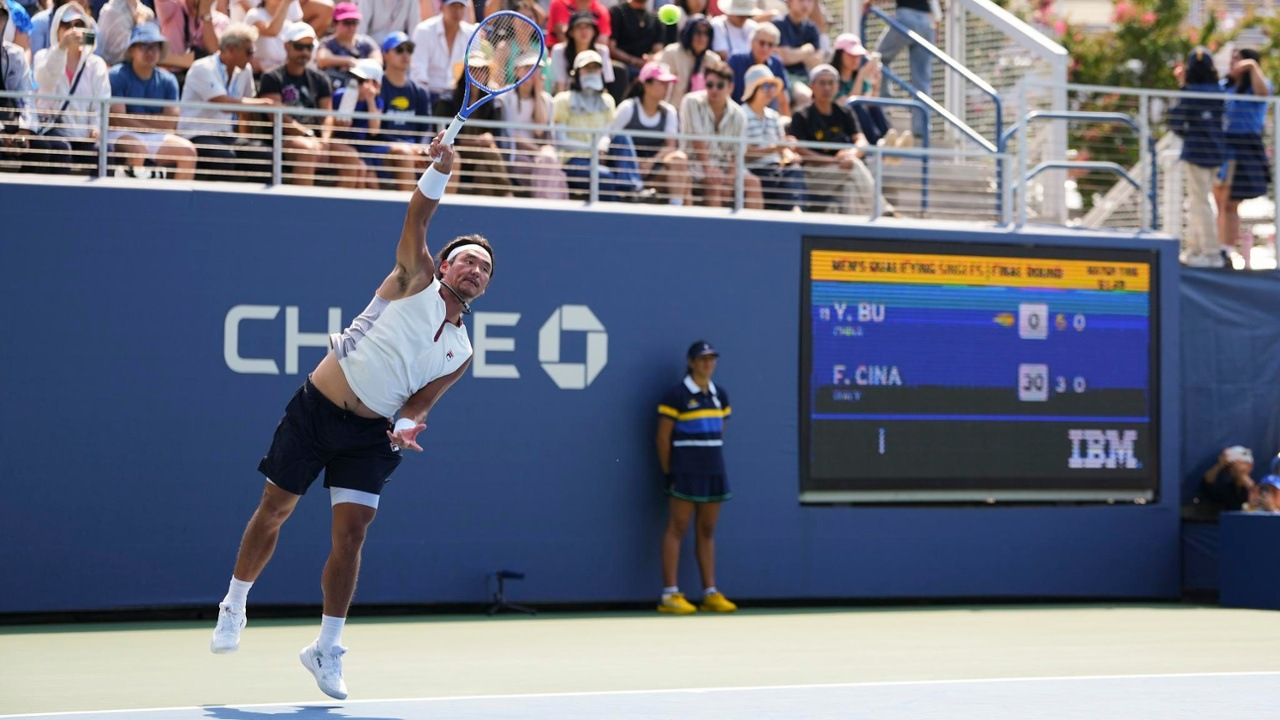
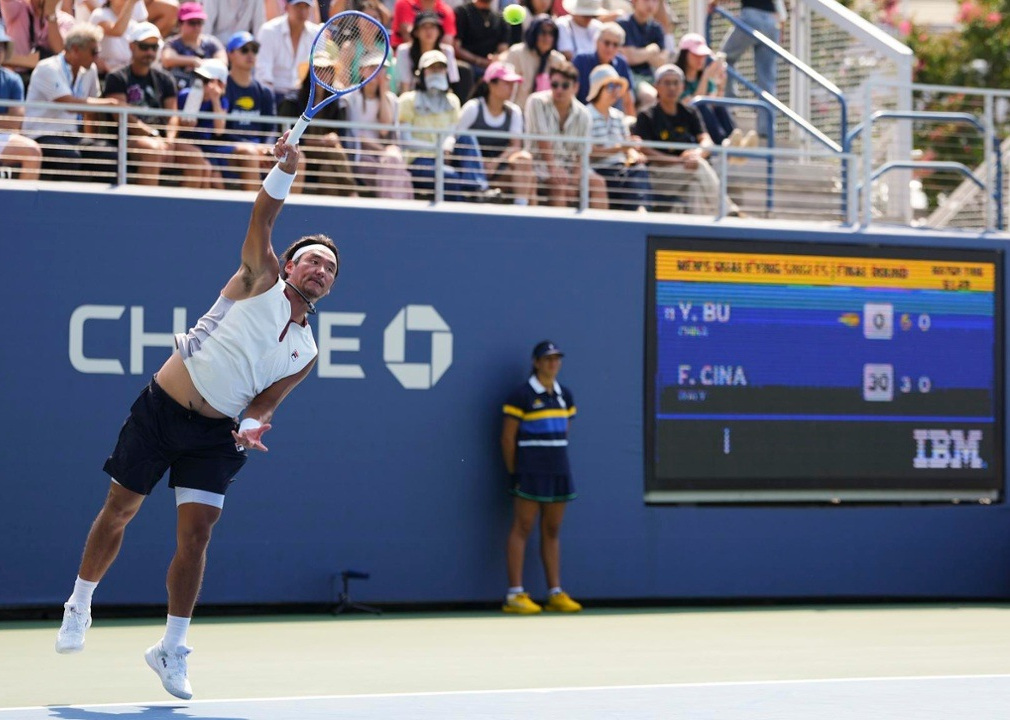
reel: 封面口播和钩子只差一个问号不该再排字幕；证据段那张照片预裁到盒子比例
bu-lucky-loser-story 第一版渲出来，拉回成片逐帧看，两处都是「渲染、质检、
全量测试一律绿，只有打开看才看得见」的那一类：

① **海报上两行大字底下又叠了一行字幕，说的是同一句**
   海报印「五天前出局 / 五天后赢了种子」，字幕写「5天前出局 5天后赢了种子?」。
   根因是比对拿的是 `drop_punctuation`，而它是**给屏幕文本**用的、故意留着
   `？！`；钩子按全站规矩不带标点、口播那句是问句，于是「只差一个句末问号」
   被判成「另说了一件事」。收成 `cover_voice_is_the_printed_hook`（只用来
   比对，不上屏）：去标点之后再把 `？！?!` 和空格一并收掉。
   ⚠ 先量后改：11 条有封面配音的 spec 里只有这一条是这个形状（8 条相等、
   2 条真的另说一件事），所以修的是判据用错了函数，不是放宽会误伤存量的规矩。
   判据钉两头（只差问号要判同 / 真的另说一件事不许被放宽），两个方向分别
   反向验证过，各红在自己的断言行。

② **资格赛那张照片在整屏证据段里只占画面高 40%**，人小得像缩略图
   `cut_still_segment` 的盒子是 1015×1267（0.801），16:9 缩进去必然如此。
   横向裁到 1010×720（x=155~1165）之后占 50%、放大只 1.005 倍。
   ⚠ 没有裁到 0.801：人在 x≈200~470、记分牌在 x≈795~1165，两者跨 960px，
   裁成竖条必然丢掉一头，而记分牌上的 `MEN'S QUALIFYING SINGLES | FINAL
   ROUND` / `Y. BU` / `F. CINA` 正是这一屏旁白的自证。三档并排比过。

两条都写进 CLAUDE.md（diff 核过，一行都没删掉别人的正文）。全量 3015 绿。

Claude-Session: https://claude.ai/code/session_01VPPLgzauCgct4S3WkRU5iG

diff --git a/tools/build_match_reel.py b/tools/build_match_reel.py
@@ -5657,6 +5657,29 @@ def hook_lines(spec: dict) -> list[str]:
             if ln.strip()]
 
 
+def cover_voice_is_the_printed_hook(narration: str, hook: str) -> bool:
+    """封面念的那句，是不是海报上印的那句——**只用来决定要不要排字幕**。
+
+    ⚠ **别拿 `drop_punctuation` 直接比，那是用错了函数。** 它是**给屏幕文本**
+    用的，故意留着 `？！`（本文件「屏幕上不写标点」那条：换页表达得了停顿，
+    表达不了「这是一问」）；而这儿要问的是「这两句是不是同一句话」。海报上的
+    钩子按全站规矩不带标点，而口播那句常常是问句——于是
+
+        海报印着   五天前出局 / 五天后赢了种子
+        声音在念   五天前出局，五天后赢了种子？
+
+    只差一个问号，却被判成「另说了一件事」，字幕把同一句话在同一帧里又写了
+    一遍（还被 `arabic_numerals` 换成了「5天前出局 5天后赢了种子?」，读起来
+    像第三句）。2026-09-03 `bu-lucky-loser-story` 第一版就是这么渲出去的。
+    ⚠ 空格也要收掉：钩子的换行和口播的逗号都被 `drop_punctuation` 换成空格，
+    而它们的**个数**未必一样（三行钩子 vs 两个逗号）。
+    """
+    def key(text: str) -> str:
+        flat = drop_punctuation(str(text).replace("\n", " "))
+        return "".join(ch for ch in flat if ch not in "？！?!　 ")
+    return key(narration) == key(hook)
+
+
 def cover_voice_matches_hook_problem(spec: dict) -> str | None:
     """封面口播和印在海报上的钩子必须是同一句话。
 
@@ -7012,9 +7035,11 @@ def render(spec: dict, outdir: Path, *, voice: str, rate: str,
         # 大字，字幕把同样的话在同一帧里再写一遍，只是把画面弄脏。
         # 判据是「一不一样」，不是「封面一律不出字幕」：封面那句要是**另说了
         # 一件事**（存量里没有，但迟早会有），它照样要有字幕——静音刷是默认状态。
-        printed = drop_punctuation(
-            str(spec["cover"].get("hook", "")).replace("\n", " "))
-        if drop_punctuation(cover_text) == printed:
+        # ⚠ 比对走 `cover_voice_is_the_printed_hook`，不直接用
+        # `drop_punctuation`——那个函数留着 `？！`，而钩子按规矩不带标点，
+        # 于是「只差一个问号」会被判成另说一件事。见那个函数的注释。
+        if cover_voice_is_the_printed_hook(cover_text,
+                                           spec["cover"].get("hook", "")):
             print("[封面] 旁白就是海报上那句钩子，不另排字幕")
         else:
             cues.extend(subtitle_cues(readable(cover_text),

diff --git a/tests/test_match_reel.py b/tests/test_match_reel.py
@@ -2923,11 +2923,26 @@ def test_封面念的就是海报上那句钩子就不另排字幕():
     spec = json.loads(Path("specs/reels/hewitt-washington.json").read_text("utf-8"))
     cover = spec["cover"]
     assert cover.get("narration"), "休伊特那条封面没有配音——那就又是一屏哑的"
-    from tennislive.video.subtitle_text import drop_punctuation
-    assert drop_punctuation(cover["narration"]) == drop_punctuation(
-        cover["hook"].replace("\n", " ")), (
+    reel_mod = _reel()
+    same = reel_mod.cover_voice_is_the_printed_hook
+    assert same(cover["narration"], cover["hook"]), (
         "封面念的和印的不是同一句了。那没问题，但字幕会跟着出现——"
         "确认过排版再改这条断言")
+
+    # ⚠ **只差句末那个问号，仍然是同一句话。** `drop_punctuation` 是给屏幕
+    # 文本用的、故意留着 `？！`，拿它直接比就会把「五天前出局，五天后赢了
+    # 种子？」判成另说一件事，于是海报上那两行大字底下又叠一行小字
+    # （2026-09-03 `bu-lucky-loser-story` 第一版渲出来就是这样）。
+    assert same("五天前出局，五天后赢了种子？", "五天前出局\n五天后赢了种子"), (
+        "只差一个句末问号被判成另说一件事——字幕会把海报上那句再写一遍")
+    # 另一头：真的另说一件事，不许被放宽到判成同一句
+    assert not same("全美第三大的网球赛事，办在一个三万多人的小镇。",
+                    "小镇办大赛\n三万人对二十万人"), (
+        "放宽到什么都判成一样了——另说一件事的那种情况就没字幕了")
+    for slug in ("cincinnati-story", "tiafoe-story"):
+        c = json.loads(Path(f"specs/reels/{slug}.json").read_text("utf-8"))["cover"]
+        assert not same(c["narration"], c["hook"]), (
+            f"{slug} 的封面口播另说了一件事，它必须还有字幕")
 
 
 def test_检查工具认的画布要和成片的画布是同一个():
